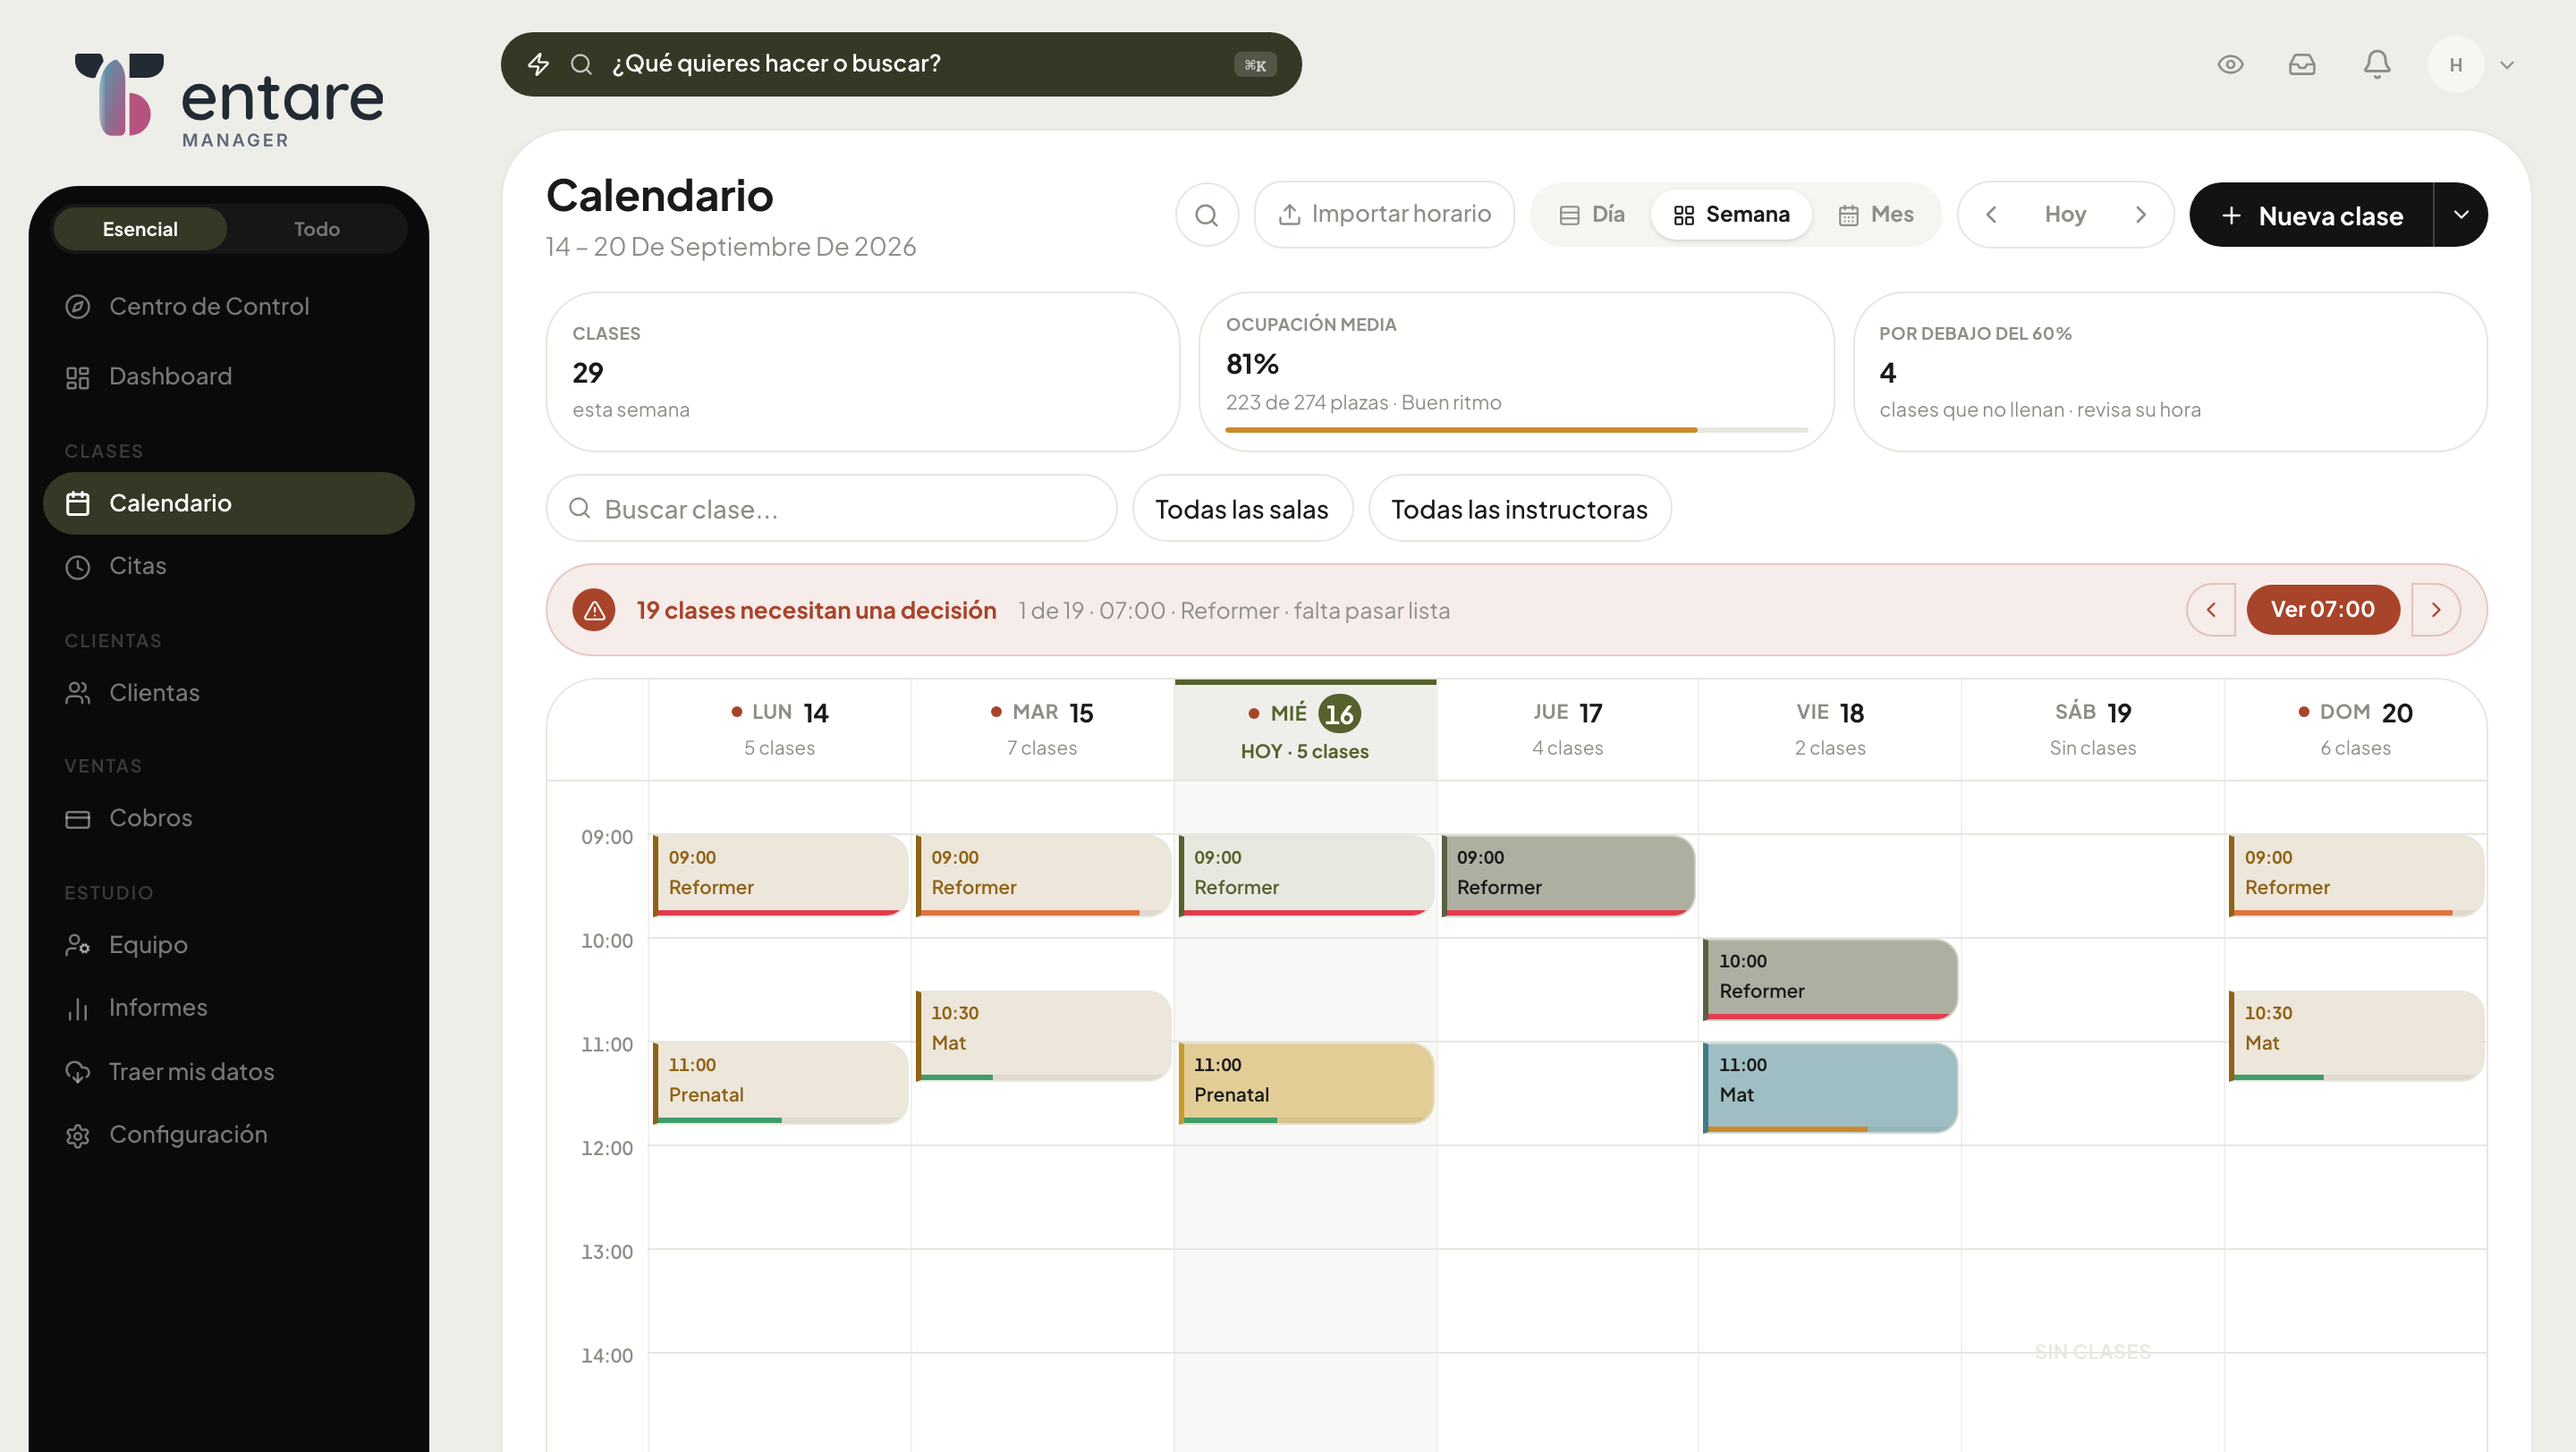
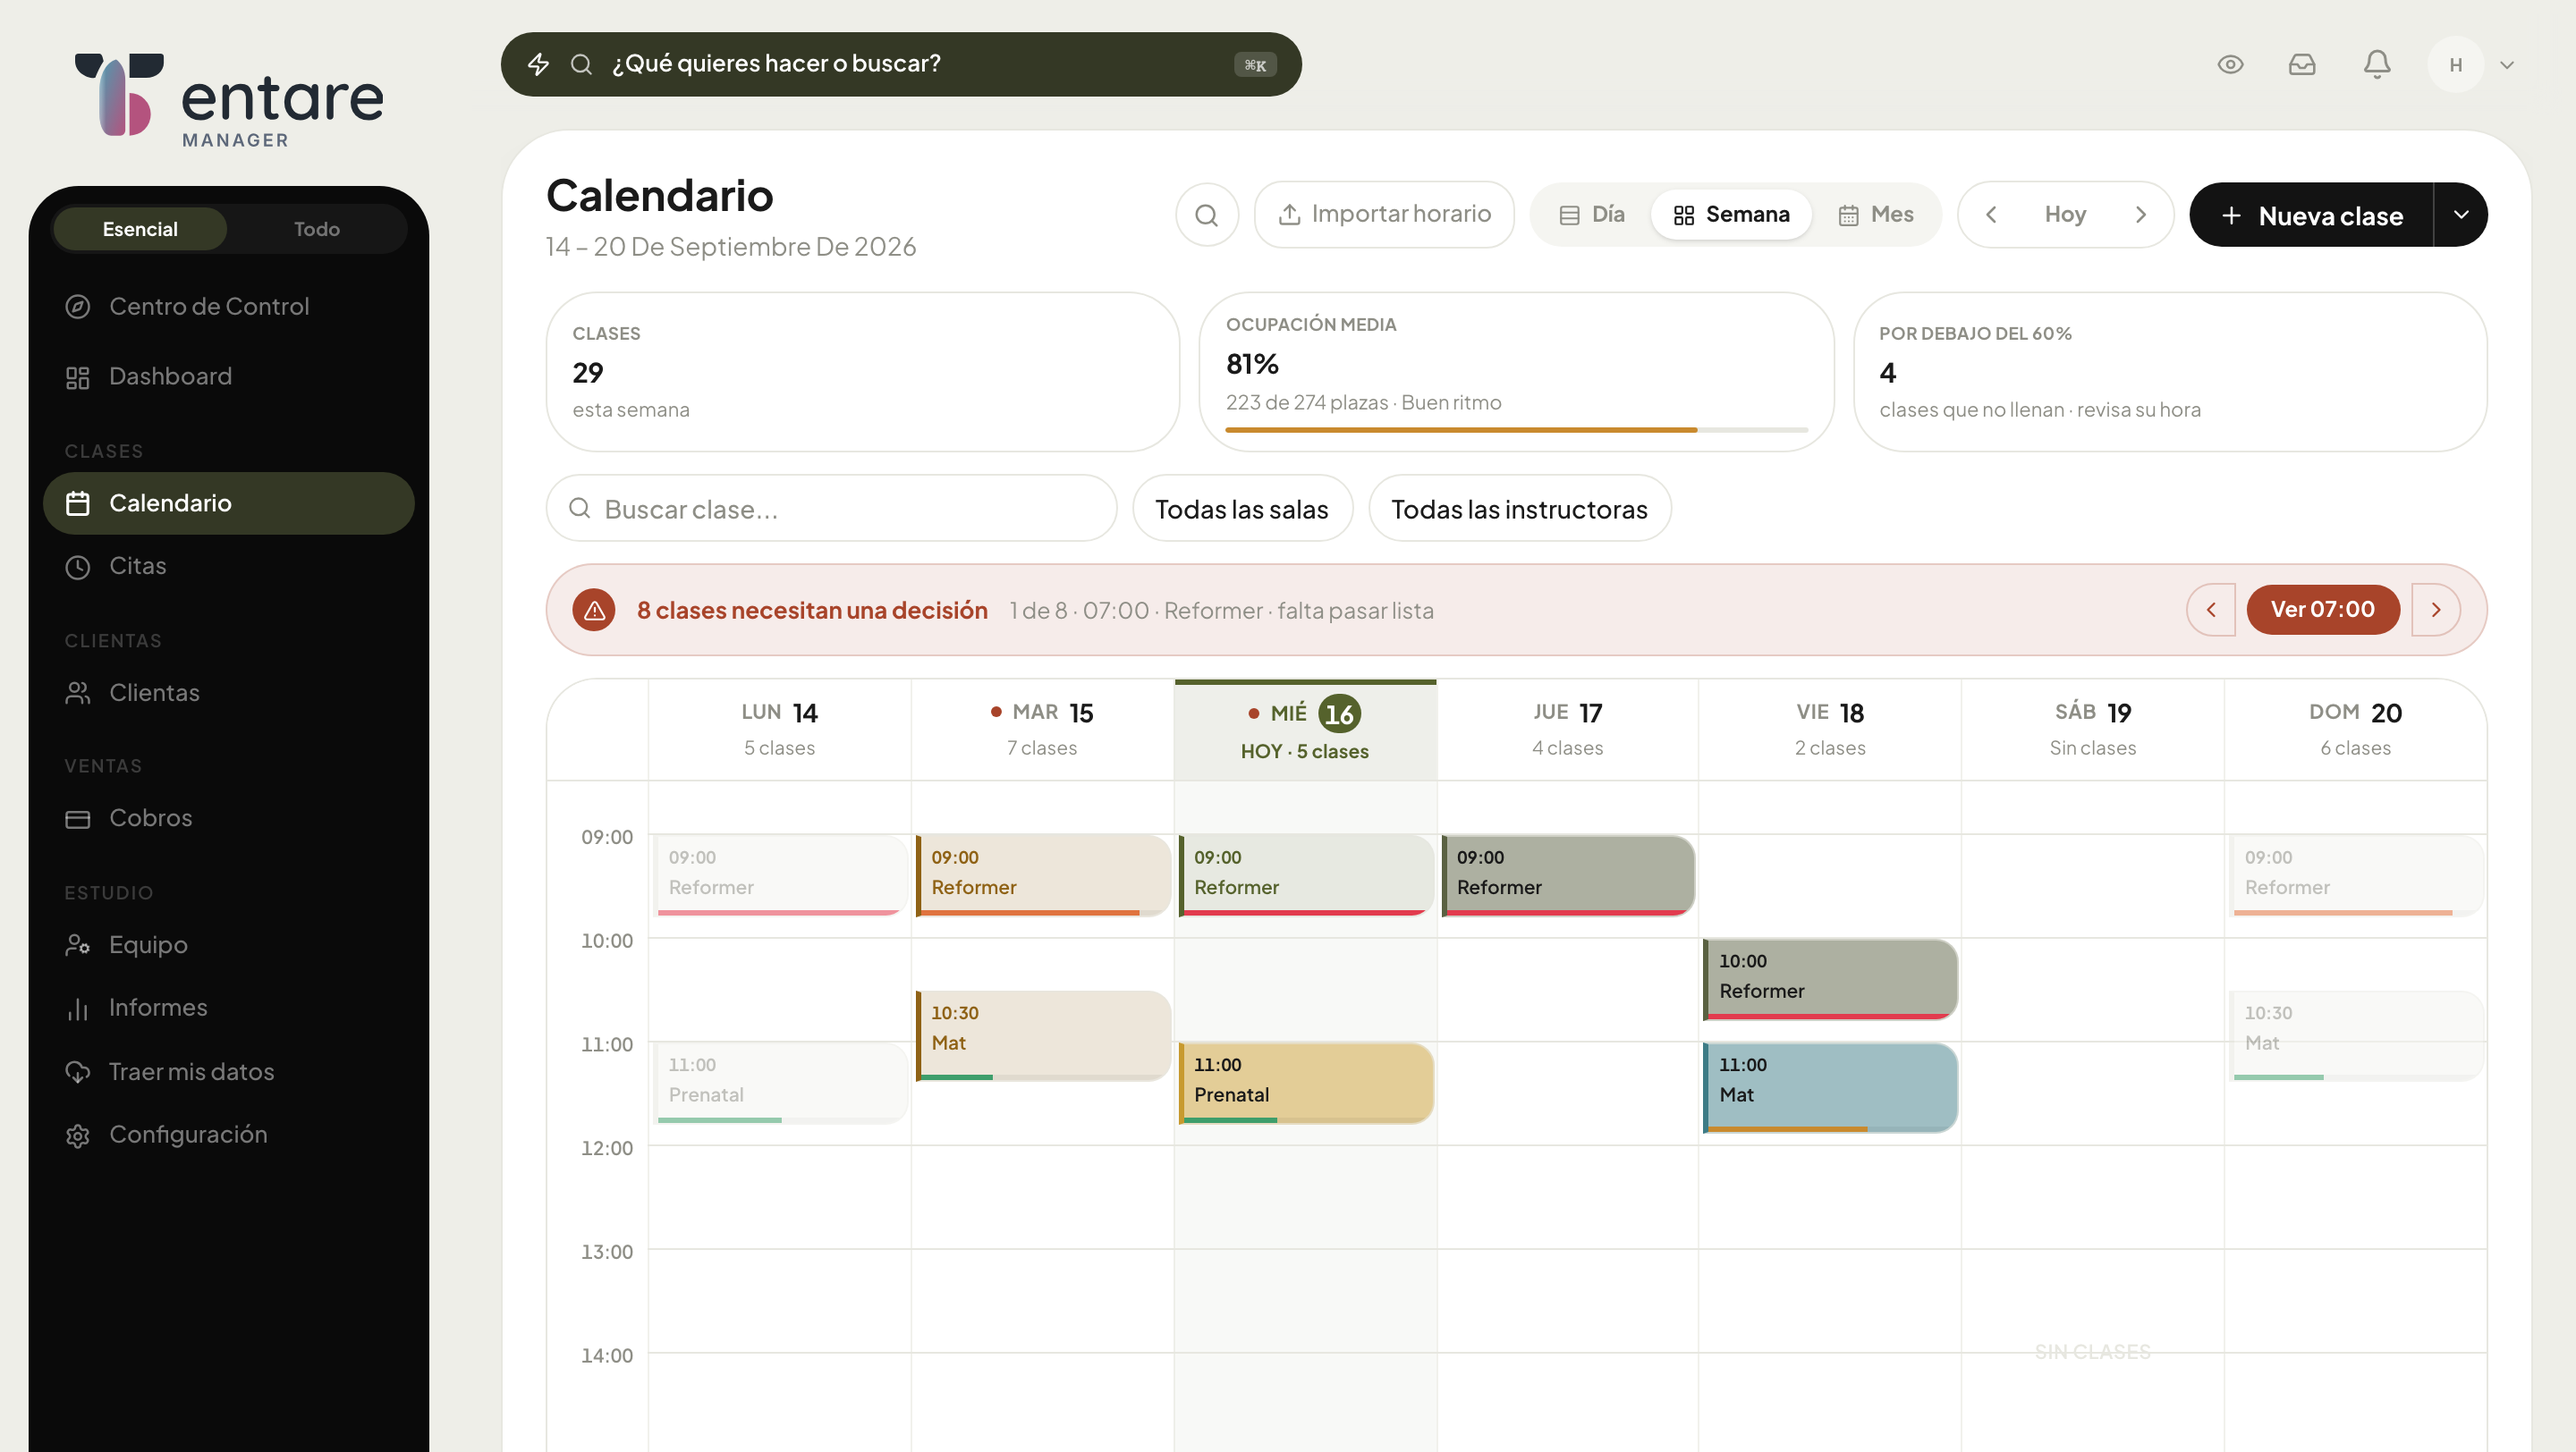
feat(seo): cuatro pantallas más del panel, y la que no se pudo capturar
Amplía el pipeline a clientas, cobros, equipo y sustituciones. Con las dos que
ya había, seis de las quince páginas de funcionalidades abren ahora con el
producto real en vez de con un dibujo.

Lo que enseña cada una es lo que hace útil la pantalla, no una versión de
demostración: Clientas con 128 fichas, 96 activas, 74 con bono vigente y 12 sin
venir en 30 días, cada fila con su plan, sus sesiones restantes y el aviso de
caducidad. Cobros con 638 € cobrados, 199 € pendientes y quién los debe —lo
que hace útil esa pantalla es justo lo que NO está en verde—.

⚠ LAS FILAS MOCKEADAS VAN COMPLETAS, Y NO ES OPCIONAL

El `select` del arranque del panel pide 33 columnas de `socios`. Con once, la
pantalla no se queda coja: monta el error boundary entero ("Algo se ha roto")
sin dejar un solo error en consola, porque React se lo traga. Costó una
bisección averiguarlo. Ahora las filas de socios, suscripciones y recibos
llevan todas las columnas de su select.

Las reservas de lunes y martes van ASISTIDA, con su check-in: sin eso la
columna "última asistencia" de Clientas salía vacía en las doce filas y la
captura enseñaba una pantalla a medias.

⚠ /INFORMES SE QUEDA FUERA, Y NO POR OLVIDO

Con este juego de mocks monta el error boundary. No se pudo aislar: probado por
separado —solo las RPC, +socios, +suscripciones, +planes, +recibos,
+sesiones/reservas, con y sin reloj fijo— renderiza bien SIEMPRE; solo falla
dentro de la ejecución completa, y React se traga el error sin dejar
[…]

diff --git a/app/funcionalidades/ficha-de-clienta/page.tsx b/app/funcionalidades/ficha-de-clienta/page.tsx
@@ -47,7 +47,7 @@ export default function FichaPage() {
       intro={<>Historial, bonos, asistencia y notas de progreso de cada alumna. Y sus limitaciones físicas donde tienen que estar: delante de quien le va a dar la clase.</>}
       chips={['Historial completo', 'Ficha de salud operativa', 'Consentimiento trazable']}
       foto={{ src: '/disciplinas/pilates.jpg', alt: 'Alumna en una clase de Pilates reformer', encuadre: 'center 30%' }}
-      visual={<Semaforo />}
+      captura={{ src: '/producto/clientas.png', alt: 'Listado de clientas en Tentare con su plan, sesiones restantes y última asistencia', pie: 'Cada fila dice lo que necesitas antes de saludarla: su plan, cuántas sesiones le quedan y si el bono caduca.', ancho: 2880, alto: 1624 }}
     >
       <Seccion id="problema" titulo="La información existe. Está repartida en cinco sitios">
         <Entradilla>
@@ -63,6 +63,7 @@ export default function FichaPage() {
       </Seccion>
 
       <Seccion id="salud" titulo="La parte delicada: lo que no puede hacer">
+        <Semaforo />
         <p>
           En Pilates esto no es un extra. Media sala tiene algo: una lumbar delicada, un hombro operado, un embarazo, una
           prótesis de cadera. Y esa información normalmente vive en la cabeza de la instructora que la atendió el primer día.

diff --git a/app/funcionalidades/sustituciones/page.tsx b/app/funcionalidades/sustituciones/page.tsx
@@ -53,7 +53,7 @@ export default function SustitucionesPage() {
       intro={<>Una instructora avisa de que no puede dar su clase. Antes de que llegues a leer el mensaje, el sistema ya sabe quién puede cubrirla y está escribiéndoles por orden.</>}
       chips={['Candidatas por disponibilidad real', 'Escalado automático', 'Cuatro niveles de autonomía']}
       foto={{ src: '/disciplinas/pilates.jpg', alt: 'Sala de reformers de un estudio de Pilates', encuadre: 'center 42%' }}
-      visual={<ResumenSustitucion />}
+      captura={{ src: '/producto/sustituciones.png', alt: 'Pantalla de sustituciones de Tentare', pie: 'Las bajas abiertas y en qué punto está cada una.', ancho: 2880, alto: 1624 }}
     >
       <Seccion id="problema" titulo="El problema no es la baja. Es todo lo que cuelga de ella">
         <Entradilla>
@@ -90,6 +90,7 @@ export default function SustitucionesPage() {
       </Seccion>
 
       <Seccion id="escalado" titulo="Qué pasa cuando nadie contesta">
+        <ResumenSustitucion />
         <p>
           Aquí es donde un sistema de sustituciones se gana el sueldo o no sirve de nada. Mandar un email y esperar no es
           automatizar: si la primera candidata está dando clase, o dormida, ese email no se lee a tiempo y la clase se cae

diff --git a/app/funcionalidades/cobros-recurrentes/page.tsx b/app/funcionalidades/cobros-recurrentes/page.tsx
@@ -46,7 +46,7 @@ export default function CobrosPage() {
       h1={<>Cobra sin perseguir a nadie.</>}
       intro={<>La cuota se cobra sola el día que toca. Y cuando una tarjeta falla —que fallará—, el sistema lo reintenta con cabeza en vez de dejarte una lista de impagos a fin de mes.</>}
       chips={['Cobro con tarjeta guardada', 'Tres reintentos escalonados', 'Remesa SEPA 19.14']}
-      visual={<ViasDeCobro />}
+      captura={{ src: '/producto/cobros.png', alt: 'Pantalla de cobros de Tentare con lo cobrado, lo pendiente y quién debe', pie: 'Lo cobrado este mes, lo que falta y quién lo debe — en la misma pantalla.', ancho: 2880, alto: 1624 }}
     >
       <Seccion id="problema" titulo="El dinero no se pierde de golpe, se pierde a goteo">
         <Entradilla>
@@ -92,6 +92,7 @@ export default function CobrosPage() {
       </Seccion>
 
       <Seccion id="sepa" titulo="SEPA 19.14: la remesa para el banco de siempre">
+        <ViasDeCobro />
         <p>
           Muchos estudios españoles llevan años cobrando por domiciliación bancaria y no quieren cambiar. Tentare genera el
           fichero de adeudos en formato <strong>pain.008.001.02</strong> —lo que tu banco llama cuaderno 19.14— con los

diff --git a/app/funcionalidades/gestion-de-instructoras/page.tsx b/app/funcionalidades/gestion-de-instructoras/page.tsx
@@ -46,7 +46,7 @@ export default function InstructorasPage() {
       h1={<>Quién puede dar qué, y cuándo.</>}
       intro={<>Disponibilidad, vacaciones, horas y tarifas de cada instructora en un sitio. Los mismos datos con los que cuadras el horario son los que cubren una baja sola.</>}
       chips={['Disponibilidad y bloqueos', 'Tarifa por hora y liquidación', 'Aviso de dependencia']}
-      visual={<DisponibilidadSemanal />}
+      captura={{ src: '/producto/equipo.png', alt: 'Pantalla de equipo de Tentare con las instructoras del estudio', pie: 'Tu equipo, con el rol de cada una y lo que cobra por hora.', ancho: 2880, alto: 1624 }}
     >
       <Seccion id="problema" titulo="El dato que suele vivir en la cabeza de alguien">
         <Entradilla>
@@ -63,6 +63,7 @@ export default function InstructorasPage() {
       </Seccion>
 
       <Seccion id="disponibilidad" titulo="Disponibilidad: la ventana semanal y sus excepciones">
+        <DisponibilidadSemanal />
         <p>
           Cada instructora tiene una ventana semanal —los tramos en los que puede trabajar— y encima de ella dos tipos de
           excepción para lo que no se repite:
